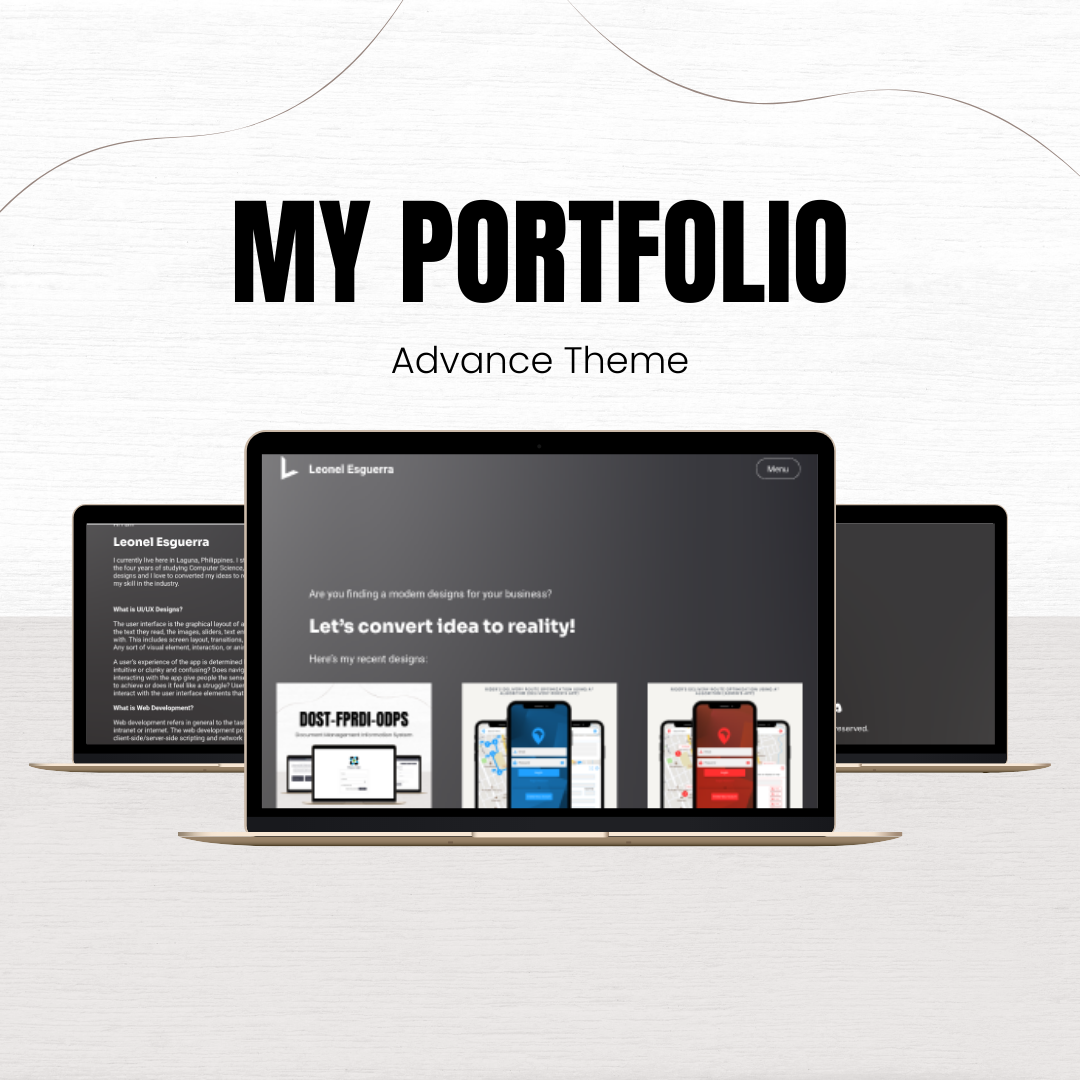
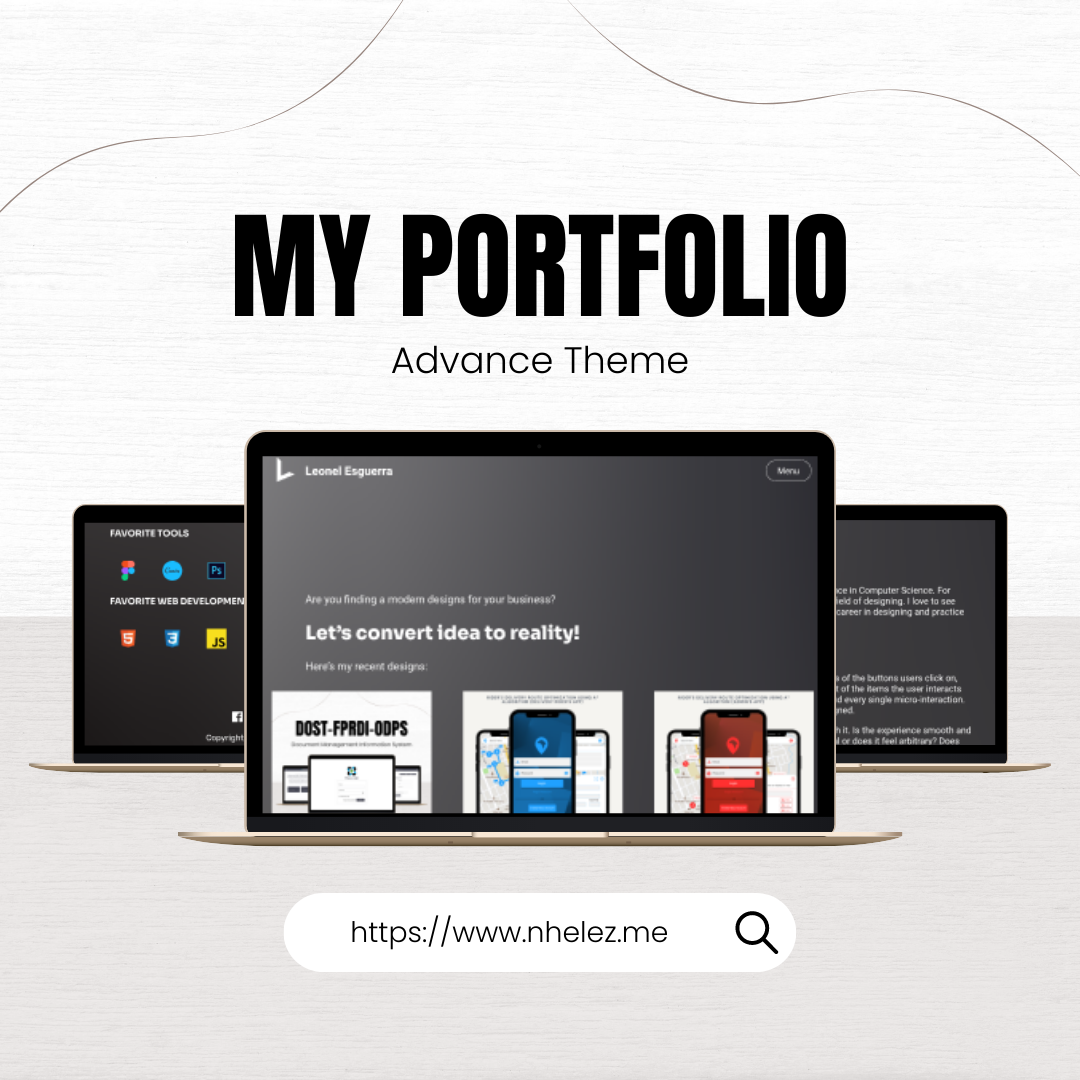
update

diff --git a/index.html b/index.html
@@ -51,7 +51,7 @@
         <div class="header slide">
             <p>Are you finding a modern designs for your business?</p>
             <h1>Let's convert ideas into reality!</h1>
-            <p>Here's my recent designs:</p>
+            <p>Here's my recent projects:</p>
         </div>
 
         <div>
@@ -80,7 +80,7 @@
         <div class="intro slide">
             <p>Hi I am</p>
             <h1 style="font-weight: 700;">Leonel Esguerra</h1>
-            <p>I currently live here in Laguna, Philippines. I studied Bachelor of Science in Computer Science. For the four years of studying Computer Science, I was interested in the field of designing. I love to see designs and I love to converted my ideas to reality. I want pursue my career in designing and practice my skill in the industry. <a href="about.html" style="color: red;">See more</a></p>
+            <p>I currently live here in Laguna, Philippines. I studied Bachelor of Science in Computer Science. For the past four years of studying Computer Science, I was interested in the field of designing and developing websites and system. I love to see designs and I love to convert my ideas into reality. I want pursue my career in designs and development of websites and system and practice my skill in the industry. <a href="about.html" style="color: red;">See more</a></p>
             <p style="font-weight: 700;">What is UI/UX Designs?</p>
             <p>The user interface is the graphical layout of an application. It consists of the buttons users click on, the text they read, the images, sliders, text entry fields, and all the rest of the items the user interacts with. This includes screen layout, transitions, interface animations and every single micro-interaction. Any sort of visual element, interaction, or animation must all be designed.</p>
             <p>A user's experience of the app is determined by how they interact with it. Is the experience smooth and intuitive or clunky and confusing? Does navigating the app feel logical or does it feel arbitrary? Does interacting with the app give people the sense that they're efficiently accomplishing the tasks they set out to achieve or does it feel like a struggle? User experience is determined by how easy or difficult it is to interact with the user interface elements that the UI designers have created.</p>

diff --git a/about.html b/about.html
@@ -50,13 +50,13 @@
 
         <div class="header-nav-content slide">
             <p>About me</p>
-            <h1>Frontend Developer & UI/UX Designer</h1>
+            <h1>Full Stack Developer and Designer</h1>
         </div>
 
         <div class="intro slide">
             <p>Hi I am</p>
             <h1 style="font-weight: 700;">Leonel Esguerra</h1>
-            <p>I currently live here in Laguna, Philippines. I studied Bachelor of Science in Computer Science. For the four years of studying Computer Science, I was interested in the field of designing. I love to see designs and I love to converted my ideas to reality. I want to pursue my career in designing and practice my skills in the industry.<br><br>
+            <p>I currently live here in Laguna, Philippines. I studied Bachelor of Science in Computer Science. For the past four years of studying Computer Science, I was interested in the field of designing and developing websites and system. I love to see designs and I love to convert my ideas into reality. I want pursue my career in designs and development of websites and system and practice my skill in the industry.<br><br>
                 In my early experience as an On-The-Job Trainee when I am Senior High School and College and also working as a production operator in a company, I was involved in communicating with different people, answering calls, accomplishing tasks, working with the team, and work independently. In my experience as an On-The-Job Trainee at DOST-FPRDI, I was assigned a role as a Frontend Developer. I am responsible for designing and developing the user interface (UI) of the system and preparing technical documentation. Being an OJT, I was also responsible to assist other employees in terms of technical aspects, attending seminars, answering calls and preparing weekly accomplishment reports.</p>
             <p style="font-weight: 700">FAVORITE TOOLS</p>
             <div class="img2">

diff --git a/style.css b/style.css
@@ -219,7 +219,7 @@ li {
 /* about header */
 
 .header-nav-content p {
-    margin-top: 120px;
+    margin-top: 80px;
     font-size: 20px;
     font-weight: 50;
     color: white;
